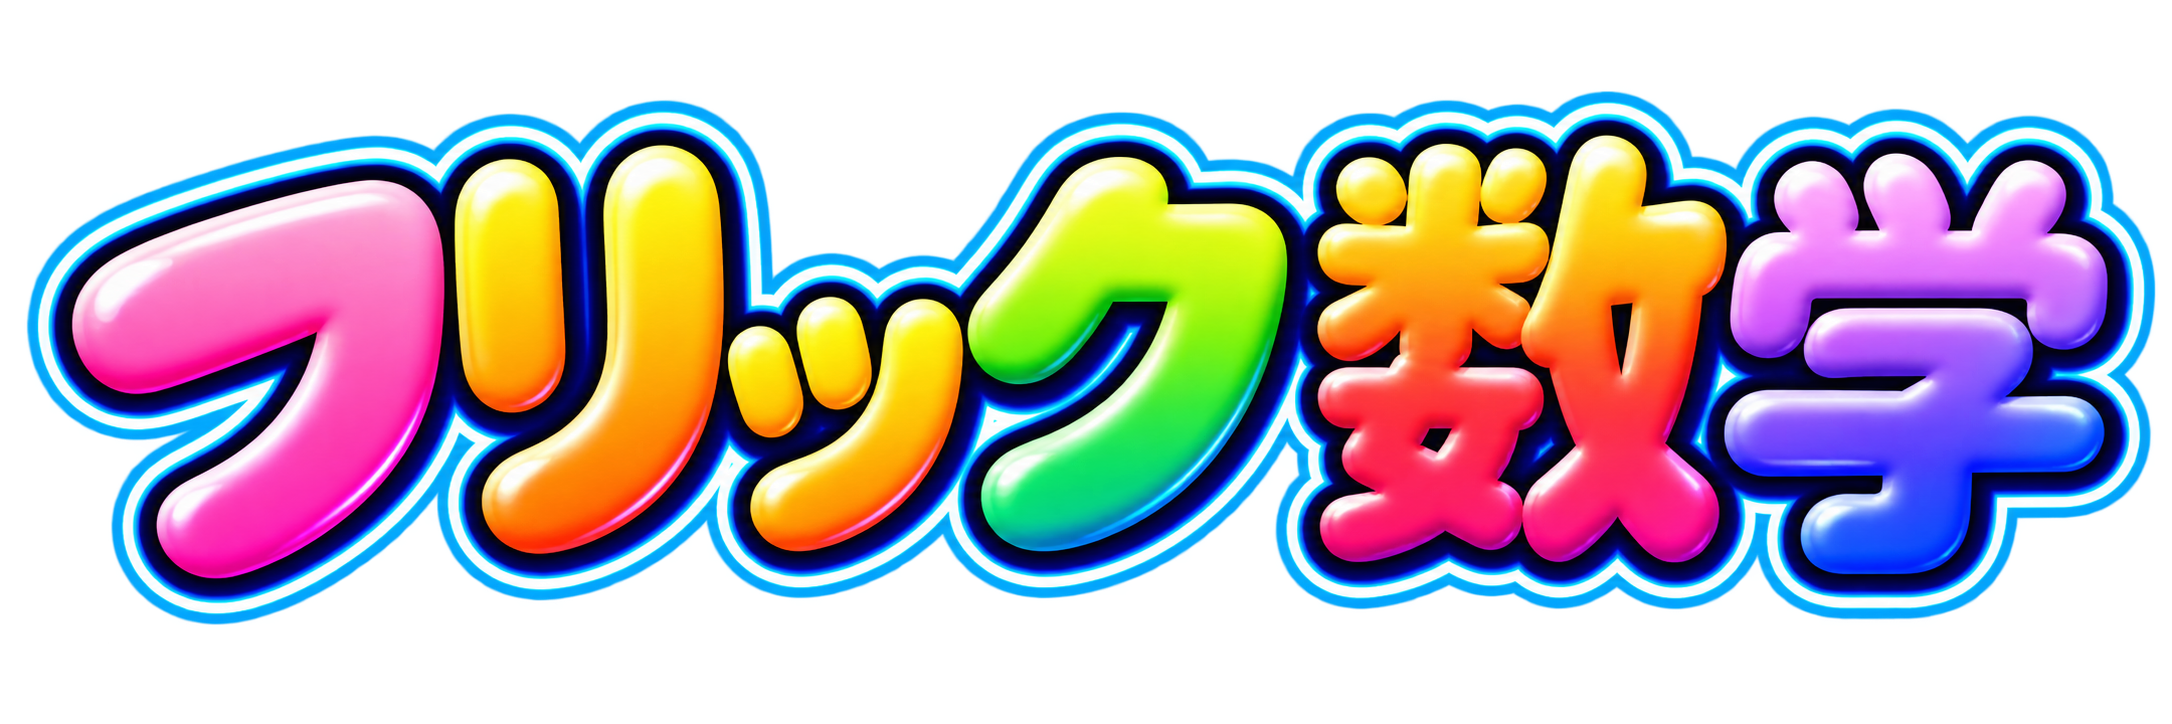
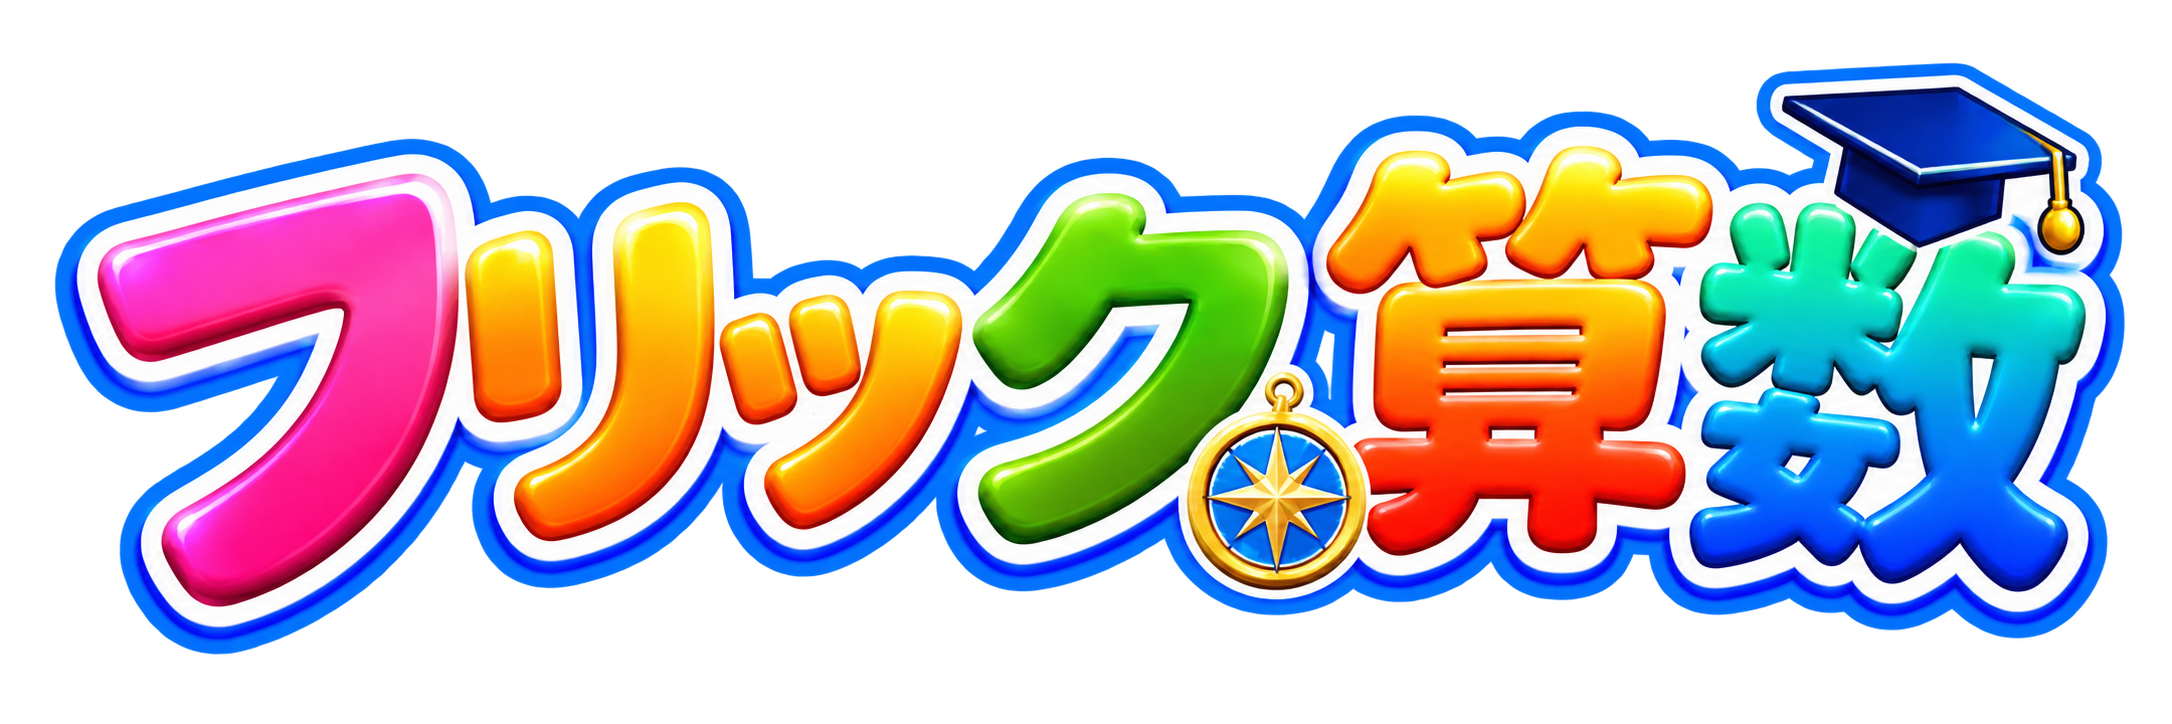
フリック算数: 題名の 絵を 入れる(けいくんの ChatGPT の 切りぬき。900×258・wordv 8)
Claude-Session: https://claude.ai/code/session_01R5NJY1DCCssuZ6oae5gyH2

diff --git a/sugaku/index.html b/sugaku/index.html
@@ -437,11 +437,11 @@ ruby.nm rt{font-size:10px;font-weight:500;color:var(--muted);letter-spacing:.02e
          読みあげソフトには かくして、下の <h1> が 名前を言う -->
     <div class="logo">
       <img class="logo-mark" src="logo-mark2.webp?v=3" alt="" width="144" height="144" aria-hidden="true">
-      <span class="logo-text">フリック算数</span>
+      <img class="logo-word" src="logo-word.webp?v=8" alt="" width="900" height="258" aria-hidden="true">
       <button class="prof-btn" id="prof-btn" aria-label="マイページ"><span class="nm"></span><span class="tile sm sk-card" id="prof-tile">?</span></button>
     </div>
     <h1 class="sr-only">フリック算数</h1>
-    <img class="hero" src="hero.webp?v=7" alt="フリック算数。数式と 図形の 浮かぶ 空の 島を 男の子と 犬が 飛んで 旅する 絵" width="1536" height="1024">
+    <img class="hero" src="hero.webp?v=8" alt="フリック算数。数式と 図形の 浮かぶ 空の 島を 男の子と 犬が 飛んで 旅する 絵" width="1536" height="1024">
     <p class="lead" id="lead">世界と日本の名所・地名・首都を、ひらがなでどれだけ速く打てるか。10問のトータルタイムで勝負しながら、旅に出よう。</p>
     <div class="modes" id="modes"></div>
     <div id="kabu-panel"></div><!-- 株式フリック旅行だけ: 集めた会社・称号(kabu/kabu.js) -->
@@ -573,7 +573,7 @@ ruby.nm rt{font-size:10px;font-weight:500;color:var(--muted);letter-spacing:.02e
 if(location.hostname === "flick-travel-game.github.io"){ try{ location.replace("https://kazutomo.app/flick/" + location.pathname.replace(/^\/flick-travel\/?/, "") + location.search + location.hash); }catch(e){} }
 /* どのゲームか(フリック旅行シリーズ。けいくん 2026-09-26「このゲームすべて作成してください」)。
    tools/build_games.py が 歴史・宇宙・からだ の ページを 作るとき この2行を 書きかえる。GAME-START */
-const GAME = { id:"sugaku", name:"フリック算数", modes:(typeof SUGAKU === "object" ? SUGAKU.modes : []), assets:"../", logo:false, hero:true, dir:"sugaku/", lead:"算数・数学の 用語・公式・定理を、ひらがなで フリック入力。打つと その ことばの 意味と 図が 出るよ。小学校の 算数から はじめて、高校受験・大学受験の 範囲の めやすまで。公式は 読みあげの 形で 打つよ。4択クイズと 計算問題で 受験の 練習も できるよ。", how:"表示された ひらがなを、そのまま打ち写してね。1回は かならず 10問。どのステージも いつも同じ10問なので、タイムをくらべられるよ。「公式を打つ」ことばは a²+b²=c² を「えーのにじょう たす …」のように 読みあげで 打つよ。説明と 計算問題は 本物の 入試問題では ないので、受験の 勉強には 学校の 教科書や 問題集も 使ってね。", rule:"ルール：予測変換は使わずに、自分の指で打ち切ろう。あそぶほど、数学の ことばと 図が つながって 見えてくるよ。大学入試センター・文部科学省・各都道府県の 教育委員会とは 関係ありません。" };
+const GAME = { id:"sugaku", name:"フリック算数", modes:(typeof SUGAKU === "object" ? SUGAKU.modes : []), assets:"../", logo:true, hero:true, dir:"sugaku/", lead:"算数・数学の 用語・公式・定理を、ひらがなで フリック入力。打つと その ことばの 意味と 図が 出るよ。小学校の 算数から はじめて、高校受験・大学受験の 範囲の めやすまで。公式は 読みあげの 形で 打つよ。4択クイズと 計算問題で 受験の 練習も できるよ。", how:"表示された ひらがなを、そのまま打ち写してね。1回は かならず 10問。どのステージも いつも同じ10問なので、タイムをくらべられるよ。「公式を打つ」ことばは a²+b²=c² を「えーのにじょう たす …」のように 読みあげで 打つよ。説明と 計算問題は 本物の 入試問題では ないので、受験の 勉強には 学校の 教科書や 問題集も 使ってね。", rule:"ルール：予測変換は使わずに、自分の指で打ち切ろう。あそぶほど、数学の ことばと 図が つながって 見えてくるよ。大学入試センター・文部科学省・各都道府県の 教育委員会とは 関係ありません。" };
 /* GAME-END */
 /* シリーズの 一覧(いちばん下の リンク)。dir は この index.html からの 相対の道 */
 const SERIES = [ {id:"world", name:"フリック世界旅行", icon:"🌍", dir:""}, {id:"rekishi", name:"フリック歴史", icon:"📜", dir:"rekishi/"},

diff --git a/tools/build_games.py b/tools/build_games.py
@@ -87,9 +87,9 @@ GAMES = {
     #   絵(2026-09-28): トップの 絵 = 2回目の 絵(1回目は「たいせき・たいせき」「にじゅうかんすう」「ひすう」「ばいすう」「中学受験」が まちがいで 入れなかった)。
     #   題名 = tools/sugaku/logo_cut.py で 切りぬいた(2026-09-28 に ふちを 作りなおした。けいくん「左上の字が切れてる」)/ アイコン = 四角い 絵を 縮めた もの
     #   ⭐ 2026-10-12 けいくん「フリック算数にしたい」→「名前だけ フリック算数に変えて、中身はこのまま」。トップの 絵・四角い 絵を「フリック算数」の 絵に(iconv 3・wordv 7)。
-    #      題名の 絵は ChatGPT の 切りぬきが 届くまで 文字(logo=False)。届いたら tools/sugaku/art/title-src.png → tools/title_from_art.py sugaku → logo=True・art.word を 実寸に・wordv +1
-    "sugaku": dict(name="フリック算数", modes="SUGAKU", kinds=set(), color="#1971c2", hero=True, logo=False,
-                   art=dict(word=(900, 226), hero=(1536, 1024), alt="フリック算数。数式と 図形の 浮かぶ 空の 島を 男の子と 犬が 飛んで 旅する 絵", iconv=3, wordv=7),
+    #      題名の 絵 = けいくんの ChatGPT の 切りぬき(tools/sugaku/art/title-src.png → tools/title_from_art.py sugaku。900×258。2026-10-13。字は 欠けなし を 確かめた)
+    "sugaku": dict(name="フリック算数", modes="SUGAKU", kinds=set(), color="#1971c2", hero=True, logo=True,
+                   art=dict(word=(900, 258), hero=(1536, 1024), alt="フリック算数。数式と 図形の 浮かぶ 空の 島を 男の子と 犬が 飛んで 旅する 絵", iconv=3, wordv=8),
                    lead="算数・数学の 用語・公式・定理を、ひらがなで フリック入力。打つと その ことばの 意味と 図が 出るよ。小学校の 算数から はじめて、高校受験・大学受験の 範囲の めやすまで。公式は 読みあげの 形で 打つよ。4択クイズと 計算問題で 受験の 練習も できるよ。",
                    how="表示された ひらがなを、そのまま打ち写してね。1回は かならず 10問。どのステージも いつも同じ10問なので、タイムをくらべられるよ。「公式を打つ」ことばは a²+b²=c² を「えーのにじょう たす …」のように 読みあげで 打つよ。説明と 計算問題は 本物の 入試問題では ないので、受験の 勉強には 学校の 教科書や 問題集も 使ってね。",
                    rule="ルール：予測変換は使わずに、自分の指で打ち切ろう。あそぶほど、数学の ことばと 図が つながって 見えてくるよ。大学入試センター・文部科学省・各都道府県の 教育委員会とは 関係ありません。"),
